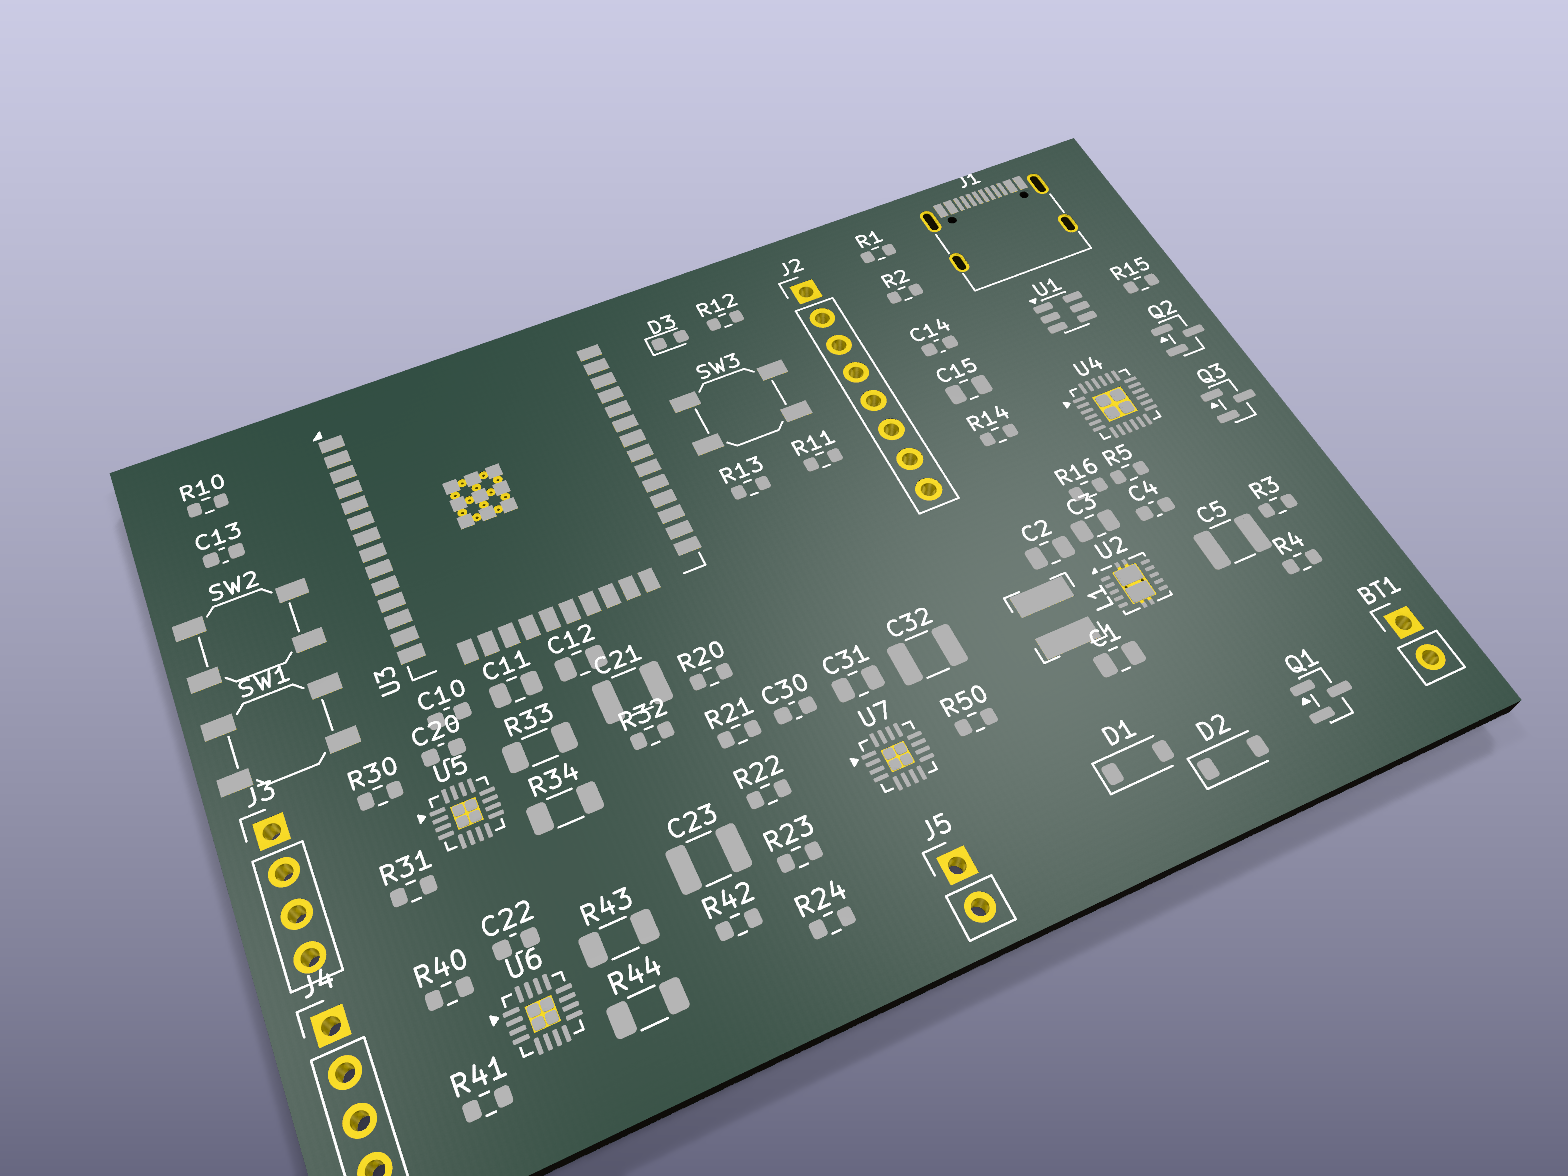
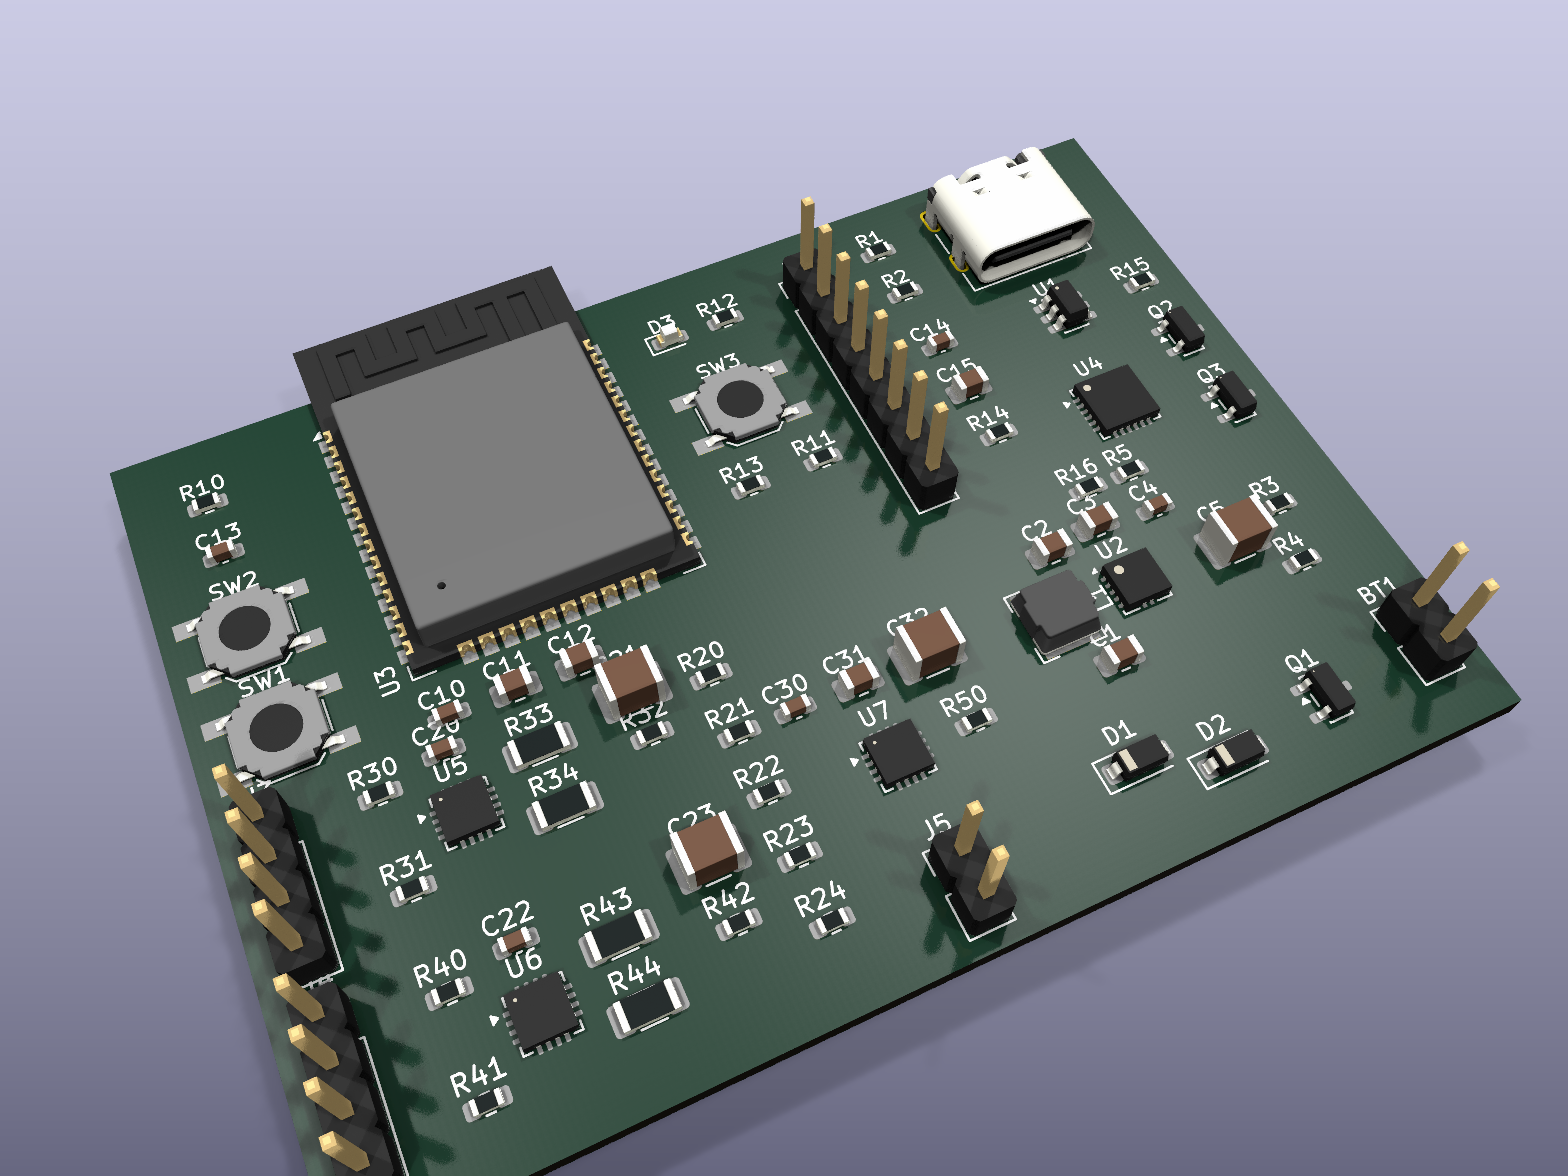
Render the board in 3D with component bodies
kicad-packages3d is a root install, so the STEP models were fetched into
~/.local/share instead and reached through KICAD9_3DMODEL_DIR, which the
footprints already reference. Method recorded in doc/TOOLING.md.

The GitLab archive ships only .step, no .wrl -- fine, since KiCad 9
footprints point at .step directly.

Four footprints have no model in the library (G-Switch USB-C, QFN-16 3x3
EP1.45, QFN-24 4x4 EP2.15, Texas DRC0010J). tools/fix_3d_models.py
repoints them at equivalent bodies for rendering only: same package and
pin count, different exposed-pad size, which sits under the part. Pads,
courtyards and nets are untouched.

Incidental datapoint for the open question in DESIGN.md 8.6: the library
ships QFN-16 3x3 in EP1.7 and EP1.8 but not EP1.45, which is weak
evidence about the real exposed-pad size -- not enough to change the
footprint, which stays a datasheet check.

diff --git a/tools/fix_3d_models.py b/tools/fix_3d_models.py
@@ -1,0 +1,41 @@
+#!/usr/bin/env python3
+"""Point the four unresolved 3D models at equivalent bodies, for rendering only.
+
+The KiCad 9.0.9 packages3D library ships no STEP for these four footprints. The
+substitutes below have the same package body and pin count, so the render is
+faithful; only the exposed-pad dimension differs, and that is hidden under the
+part. THIS CHANGES NOTHING ELECTRICAL -- pads, courtyards and nets are
+untouched, it only swaps the decorative (model ...) path.
+
+The EP mismatch is itself informative: the library ships QFN-16 3x3 in
+EP1.7 and EP1.8 but not the EP1.45 this design currently specifies, which is
+weak evidence for the open question in doc/DESIGN.md 8.6 about the real
+exposed-pad size. It is not strong enough to change the footprint -- that stays
+a datasheet check.
+"""
+import pathlib, re, sys
+
+BOARD = pathlib.Path("/home/pmudry/git/cad-demo/hardware/isc-motorbeep/isc-motorbeep.kicad_pcb")
+SUBS = {
+    "Connector_USB.3dshapes/USB_C_Receptacle_G-Switch_GT-USB-7010ASV.step":
+        "Connector_USB.3dshapes/USB_C_Receptacle_GCT_USB4105-xx-A_16P_TopMnt_Horizontal.step",
+    "Package_DFN_QFN.3dshapes/QFN-16-1EP_3x3mm_P0.5mm_EP1.45x1.45mm.step":
+        "Package_DFN_QFN.3dshapes/QFN-16-1EP_3x3mm_P0.5mm_EP1.7x1.7mm.step",
+    "Package_DFN_QFN.3dshapes/QFN-24-1EP_4x4mm_P0.5mm_EP2.15x2.15mm.step":
+        "Package_DFN_QFN.3dshapes/QFN-24-1EP_4x4mm_P0.5mm_EP2.6x2.6mm.step",
+    "Package_SON.3dshapes/Texas_DRC0010J.step":
+        "Package_SON.3dshapes/VSON-10-1EP_3x3mm_P0.5mm_EP1.65x2.4mm.step",
+}
+
+def main():
+    t = BOARD.read_text(); n = 0
+    for old, new in SUBS.items():
+        t, k = re.subn(re.escape(old), new, t)
+        print(f"  {k:2d}x  {old.split('/')[-1]}  ->  {new.split('/')[-1]}")
+        n += k
+    BOARD.write_text(t)
+    print(f"{n} model reference(s) repointed (visual only)")
+    return 0
+
+if __name__ == "__main__":
+    sys.exit(main())

diff --git a/doc/TOOLING.md b/doc/TOOLING.md
@@ -63,3 +63,36 @@ in [`KICAD9-PATCH.md`](./KICAD9-PATCH.md). Re-apply it after pulling the server 
 3. Snap origins with `place.py`, then `autoplace_schematic_fields` and `suggest_schematic_declutter`.
 4. `run_erc` on the **root**.
 5. Add the sheet's nets to `check_nets.py`, render it, and look at the PNG.
+
+## 3D rendering without root
+
+`kicad-cli pcb render` produces the views in `render/`. It needs the STEP models,
+which ship in `kicad-packages3d` — a root install. If you cannot use `sudo`, the
+models can go in your home directory instead, because KiCad resolves them through
+a variable the footprints already reference:
+
+```bash
+mkdir -p ~/.local/share/kicad-3dmodels && cd ~/.local/share/kicad-3dmodels
+curl -L -o pk3d.tar.gz \
+  "https://gitlab.com/kicad/libraries/kicad-packages3D/-/archive/9.0.9/kicad-packages3D-9.0.9.tar.gz"
+tar xzf pk3d.tar.gz            # 633 MB download, 3.2 GB extracted
+export KICAD9_3DMODEL_DIR=~/.local/share/kicad-3dmodels/kicad-packages3D-9.0.9
+```
+
+Then render, passing the same variable through to the tool:
+
+```bash
+kicad-cli pcb render --output out.png --width 1600 --height 1200 \
+  --quality high --perspective --floor --rotate "-30,0,25" --background opaque \
+  --define-var KICAD9_3DMODEL_DIR=$KICAD9_3DMODEL_DIR \
+  hardware/isc-motorbeep/isc-motorbeep.kicad_pcb
+```
+
+Note the GitLab archive contains **only `.step`** — the `.wrl` files are generated
+at packaging time and are absent. That is fine here: KiCad 9 footprints reference
+`.step` directly.
+
+Four footprints have no model in the library at all (the G-Switch USB-C, the two
+QFN sizes and the Texas VSON-10). `tools/fix_3d_models.py` repoints those at
+equivalent bodies **for rendering only** — same package and pin count, different
+exposed-pad size, which is hidden under the part. It touches nothing electrical.
